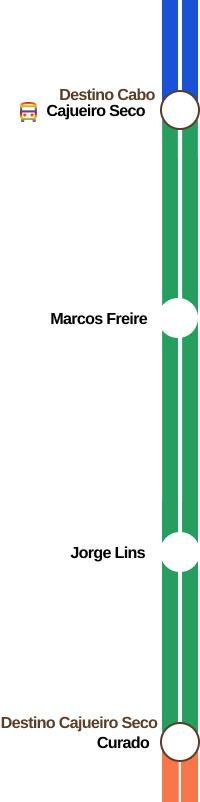
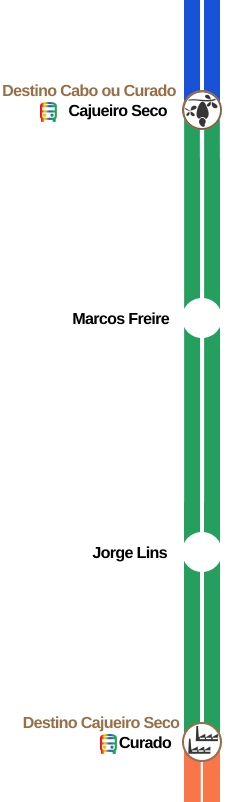
Adição das imagens das linhas e do modal na tela home

Changed region(s): [[0.0, 0.0, 1.0, 1.0], [0.24, 0.3741, 0.75, 0.4052], [0.36, 0.6858, 0.72, 0.717]]

diff --git a/lib/pages/home/components/integracao_menu.dart b/lib/pages/home/components/integracao_menu.dart
@@ -1,0 +1,175 @@
+import 'package:flutter/material.dart';
+import 'package:metroguia/pages/home/components/title_modal.dart';
+
+import '../../../constants/colors.dart';
+
+class IntegracaoMenu extends StatelessWidget {
+  const IntegracaoMenu({Key? key}) : super(key: key);
+
+  @override
+  Widget build(BuildContext context) {
+    return Column(
+      children: [
+        Padding(
+          padding: const EdgeInsets.only(top: 20),
+          child: Text(
+            "Você sabe a diferença da Integração Metrô-\nÔnibus/Terminal SEI para a Integração \nMetrô-Ônibus ?",
+            textAlign: TextAlign.left,
+            style: TextStyle(
+                color: titles,
+                fontSize: 15,
+                fontWeight: FontWeight.w700
+            ),
+          ),
+        ),
+
+        Padding(
+          padding: const EdgeInsets.only(top: 20, right: 90),
+          child: ElevatedButton(
+              style: ElevatedButton.styleFrom(
+                backgroundColor: orangeDetails
+              ),
+              onPressed: (){
+                showModalBottomSheet(
+                    context: context,
+                    builder: (BuildContext context){
+                      return SizedBox(
+                        height: 550,
+                        child: Center(
+                            child: Container(
+                              decoration: BoxDecoration(color: menu,
+                                  borderRadius: BorderRadius.only(
+                                      topLeft: Radius.circular(20),
+                                      topRight: Radius.circular(20)
+                                  )
+                              ),
+                              child: Column(
+                                children: [
+                                  Padding(
+                                    padding: EdgeInsets.only(top: 10, bottom: 25),
+                                    child: Row(
+                                      mainAxisAlignment: MainAxisAlignment.center,
+                                      children: [
+                                        Container(
+                                          height: 5,
+                                          width: 78,
+                                          color: textNavegation,
+                                        )
+                                      ],
+                                    ),
+                                  ),
+                                  TitleModal(),
+                                  SizedBox(
+                                    width: 353,
+                                    height: 120,
+                                    child: Container(
+                                     decoration: BoxDecoration(
+                                       borderRadius: BorderRadius.circular(2),
+                                       color: Colors.white
+                                     ),
+                                      margin: EdgeInsets.only(top: 25),
+                                      child: Row(
+                                        mainAxisAlignment: MainAxisAlignment.spaceEvenly,
+                                        children: [
+                                          Text(
+                                            "Os terminais SEI são representados \n"
+                                                "por este símbolo. Indicando que são \n"
+                                                "terminais integrados, incluídos ao metrô.",
+                                            style: TextStyle(
+                                              color: textMain,
+                                              fontSize: 14,
+                                            ),
+                                          ),
+
+                                          ShaderMask(
+                                            shaderCallback: (Rect) => LinearGradient(
+                                                colors: [
+                                                  redDetails,
+                                                  redDetails,
+                                                  yellowDetails,
+                                                  blueLinhaSul,
+                                                  greenLinhaVlt,
+                                                  greenLinhaVlt,
+                                                ],
+                                                begin: Alignment.topLeft,
+                                                end: Alignment.topRight
+                                            ).createShader(Rect),
+                                            child: Icon(
+                                              color:Colors.white,
+                                              Icons.directions_bus_filled_outlined,
+                                              size: 60,
+                                            ),
+                                          ),
+                                        ],
+
+                                      )
+                                    ),
+                                  ),
+
+                                  Padding(
+                                    padding: const EdgeInsets.symmetric(),
+                                    child: SizedBox(
+                                      width: 353,
+                                      height: 120,
+                                      child: Container(
+                                          decoration: BoxDecoration(
+                                              borderRadius: BorderRadius.circular(2),
+                                              color: Colors.white
+                                          ),
+                                          margin: EdgeInsets.only(top: 25),
+                                          child: Row(
+                                            mainAxisAlignment: MainAxisAlignment.spaceEvenly,
+                                            children: [
+                                              Text(
+                                                "As integrações Metrô-Ônibus são\n"
+                                                    "representados por este símbolo. Indicando \n"
+                                                    "que são os ônibus que não entram nos \nterminais SEI.",
+                                                style: TextStyle(
+                                                  color: textMain,
+                                                  fontSize: 14,
+                                                ),
+                                              ),
+
+                                             Icon(
+                                                  color: icons,
+                                                  Icons.directions_bus_filled_outlined,
+                                                  size: 60,
+                                                ),
+                                            ],
+                                          )
+                                      ),
+                                    ),
+                                  ),
+
+                                  Padding(
+                                      padding: EdgeInsets.only(top: 8, right: 30),
+                                    child: Text(
+                                      "Em ambos, não será debitada uma nova tarifa, \nse for respeitado o período de duas horas.",
+                                      style: TextStyle(
+                                        color: orangeDetails
+                                      ),
+                                    ),
+                                  )
+
+                                ],
+                              ),
+                            )
+                        ),
+                      );
+                    }
+                );
+              },
+              child: const Text(
+                  "CLIQUE AQUI E SAIBA MAIS",
+                  style: TextStyle(
+                    color: Colors.white,
+                    fontSize: 14,
+                    fontWeight: FontWeight.w700
+                  ),
+              )
+          ),
+        )
+      ],
+    );
+  }
+}

diff --git a/lib/pages/home/components/home_menu.dart b/lib/pages/home/components/home_menu.dart
@@ -1,5 +1,6 @@
 import 'package:flutter/material.dart';
 import 'package:metroguia/pages/home/components/fav_routes.dart';
+import 'package:metroguia/pages/home/components/integracao_menu.dart';
 import 'package:metroguia/pages/home/components/search_bar.dart';
 import 'package:metroguia/pages/home/components/title_home.dart';
 import 'package:metroguia/pages/home/components/title_integracao.dart';
@@ -15,7 +16,7 @@ class HomeMenu extends StatelessWidget {
               padding: EdgeInsets.only(top: 100),
               child: Expanded(
                 child: Container(
-                  height: 440,
+                  height: 640,
                   decoration: BoxDecoration(color: menu,
                       borderRadius: BorderRadius.only(
                           topLeft: Radius.circular(16),
@@ -41,6 +42,7 @@ class HomeMenu extends StatelessWidget {
                       TitleHome(),
                       FavoritesRotas(),
                       TitleIntegracao(),
+                      IntegracaoMenu()
                     ],
                   ),
                 ),

diff --git a/lib/pages/linha__selecionada/linha__sul/components/linha_sul_menu.dart b/lib/pages/linha__selecionada/linha__sul/components/linha_sul_menu.dart
@@ -38,7 +38,7 @@ class LinhaSulMenu extends StatelessWidget {
                 Row(
                   children: [
                     SizedBox(
-                      height: 620,
+                      height: 610,
                         child: Container(
                             margin: EdgeInsets.only(top: 20, left: 8),
                             child: Image.asset("assets/images/MapaLinhasul.png")
@@ -47,7 +47,7 @@ class LinhaSulMenu extends StatelessWidget {
 
                     //Informações dos ícones
                     Container(
-                        margin: EdgeInsets.only(right: 5, bottom: 455),
+                        margin: EdgeInsets.only(right: 2, bottom: 455),
                         child: Column(
                           children: [
                             Padding(

diff --git a/lib/pages/home/components/title_modal.dart b/lib/pages/home/components/title_modal.dart
@@ -2,13 +2,13 @@ import 'package:flutter/material.dart';
 
 import '../../../constants/colors.dart';
 
-class TitleIntegracao extends StatelessWidget {
-  const TitleIntegracao({Key? key}) : super(key: key);
+class TitleModal extends StatelessWidget {
+  const TitleModal({Key? key}) : super(key: key);
 
   @override
   Widget build(BuildContext context) {
     return Container(
-      padding: const EdgeInsets.only(left: 20, top: 50),
+      padding: const EdgeInsets.only(left: 20, top: 5),
       child: Row(
           crossAxisAlignment: CrossAxisAlignment.center,
           children: [
